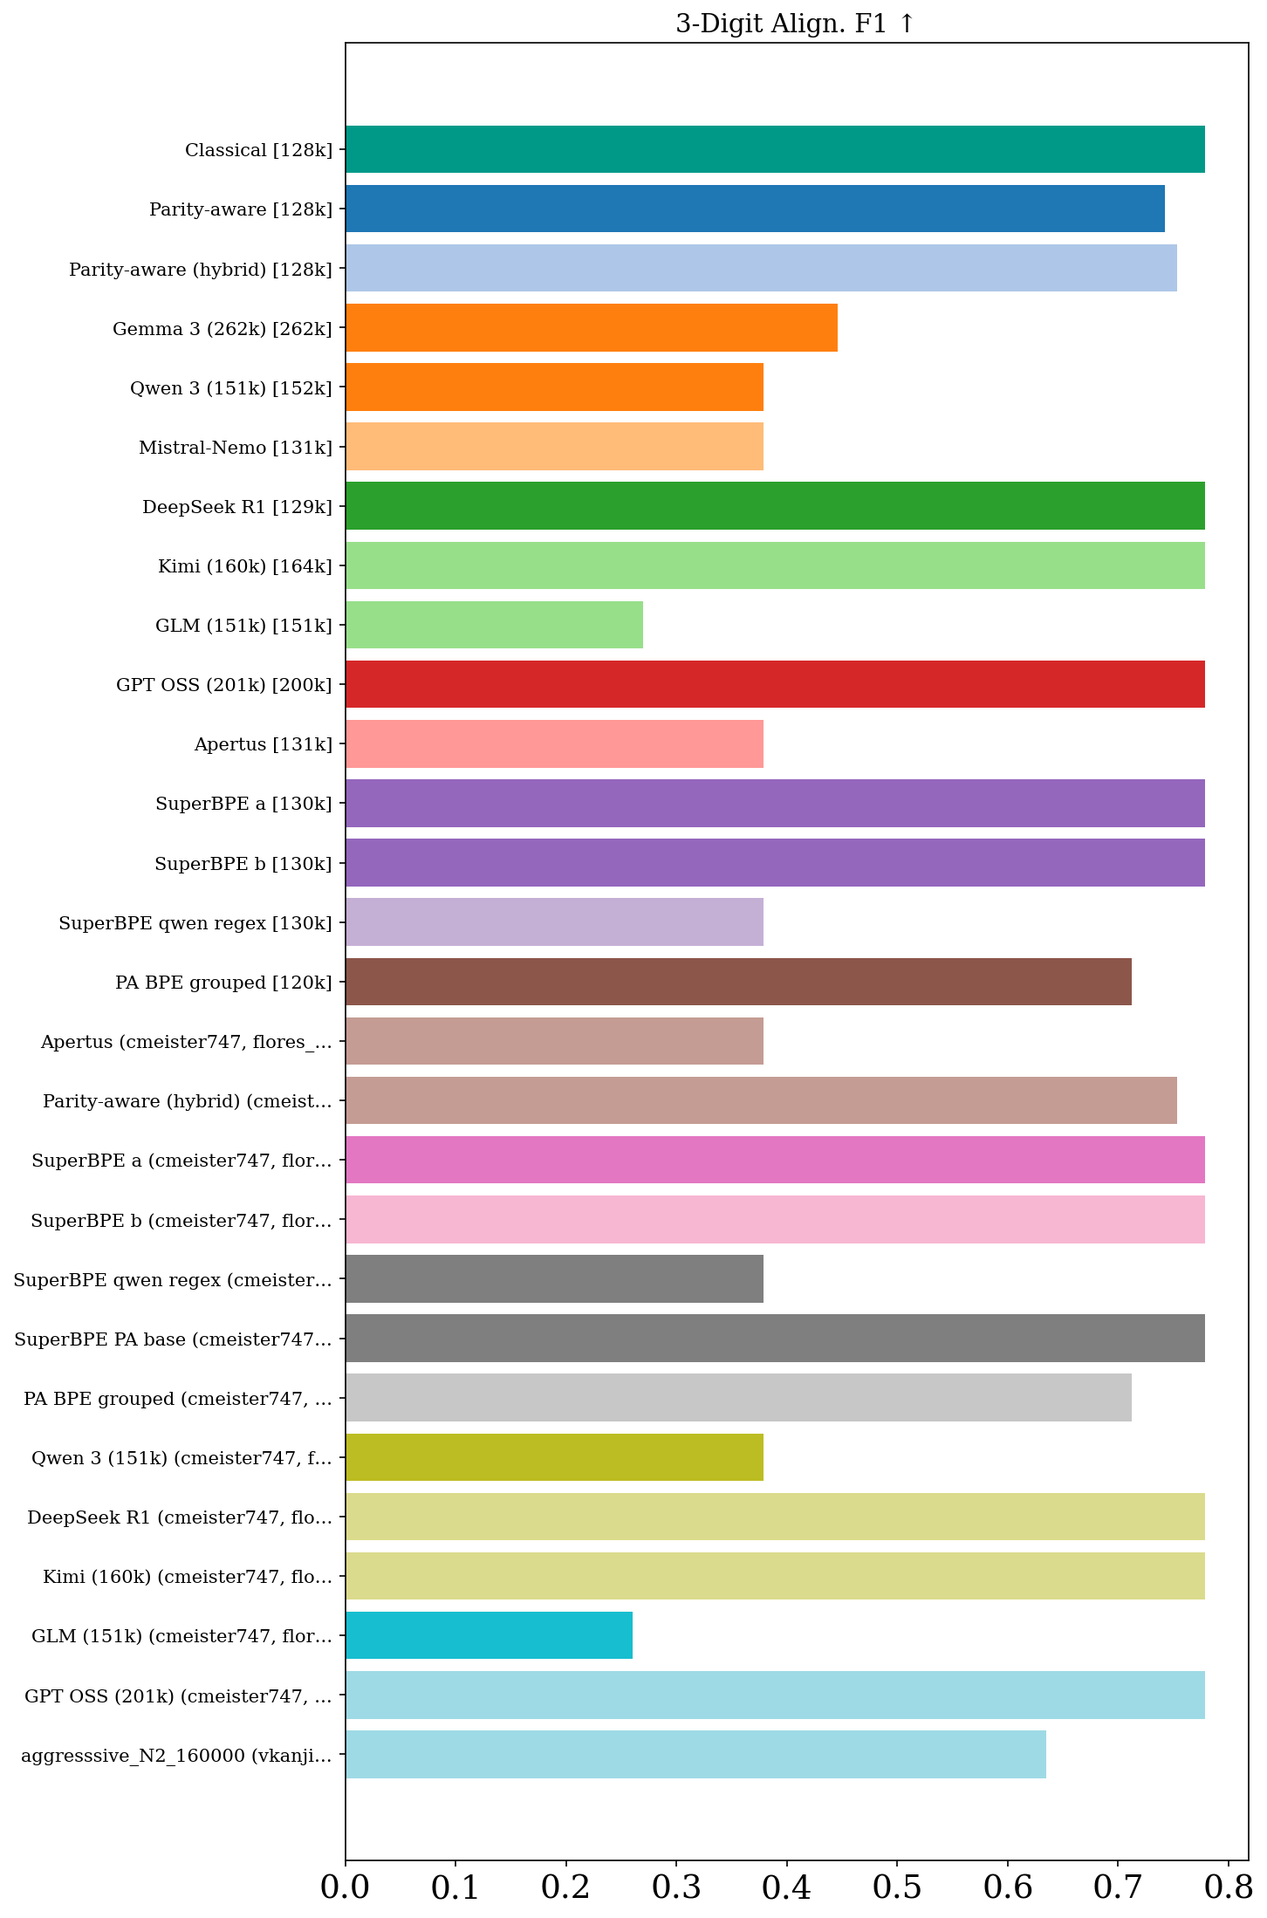
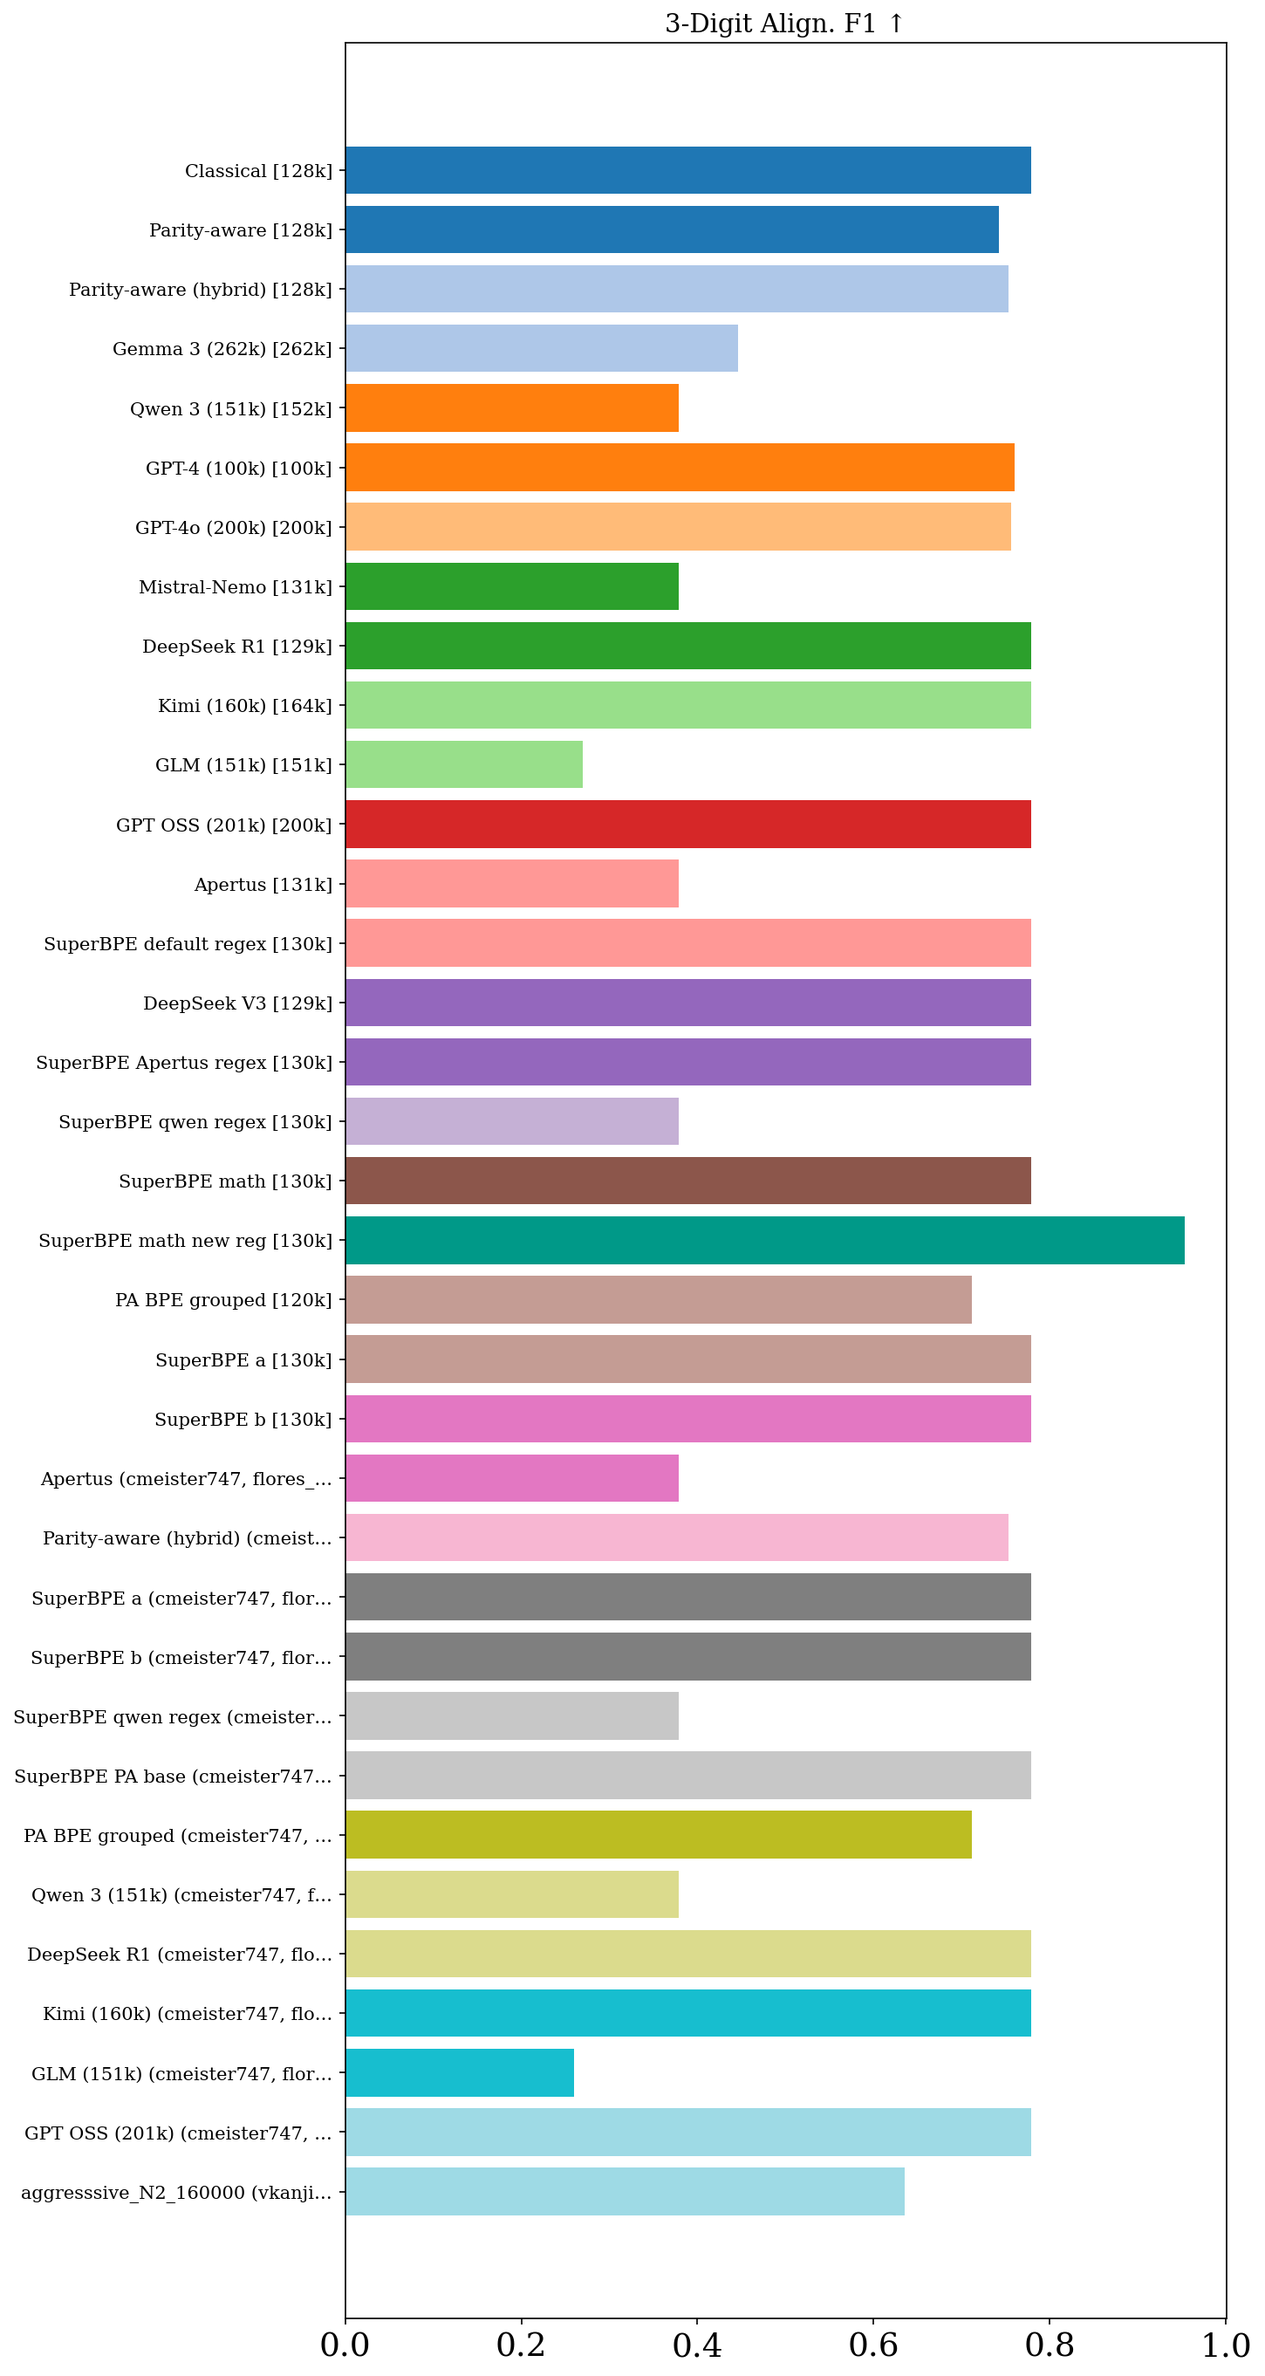
Update RESULTS_flores_core_lines.md (2026-02-26 16:45:39)

diff --git a/RESULTS_flores_core_lines.md b/RESULTS_flores_core_lines.md
@@ -1,35 +1,57 @@
-# Tokenizer Evaluation Results
+# Tokenizer Evaluation Results — flores_core / lines
 
-_Last updated: 2026-02-26 16:44:35_
+_Last updated: 2026-02-26 16:40:08_
 
-| Tokenizer | Vocab Size | Fertility | Compression Rate | Vocab Util. | Avg Token Rank | Gini | 3-Digit Align. F1 | Op. Isolation | AST Align. | Ident. Frag. | Depth Corr. | Pat. Stability | UTF-8 Integ. | Char Split | Languages | TTR | Shannon Entropy | Dataset | User | Date |
-| --- | --- | --- | --- | --- | --- | --- | --- | --- | --- | --- | --- | --- | --- | --- | --- | --- | --- | --- | --- | --- |
-| Apertus_Coarse_Family (ayavuz, flores_core) | --- | 40.070 | 0.029 | 0.340 | --- | 0.103 | --- | --- | --- | --- | --- | --- | --- | --- | 13 | 0.0858 | 12.49 | flores_core | ayavuz | 2026-02-21 |
-| Apertus_Fine_Family (ayavuz, flores_core) | --- | 40.619 | 0.029 | 0.336 | --- | 0.114 | --- | --- | --- | --- | --- | --- | --- | --- | 13 | 0.0837 | 12.43 | flores_core | ayavuz | 2026-02-21 |
-| Apertus_Per_Lang (ayavuz, flores_core) | --- | 38.592 | 0.030 | 0.333 | --- | 0.083 | --- | --- | --- | --- | --- | --- | --- | --- | 13 | 0.0872 | 12.62 | flores_core | ayavuz | 2026-02-21 |
-| BPE_Coarse_Family (ayavuz, flores_core) | --- | 42.935 | 0.027 | 0.245 | --- | 0.083 | --- | --- | --- | --- | --- | --- | --- | --- | 13 | 0.0577 | 12.46 | flores_core | ayavuz | 2026-02-21 |
-| BPE_Fine_Family (ayavuz, flores_core) | --- | 44.451 | 0.026 | 0.237 | --- | 0.082 | --- | --- | --- | --- | --- | --- | --- | --- | 13 | 0.0539 | 12.32 | flores_core | ayavuz | 2026-02-21 |
-| BPE_Per_Lang (ayavuz, flores_core) | --- | 42.585 | 0.027 | 0.228 | --- | 0.082 | --- | --- | --- | --- | --- | --- | --- | --- | 13 | 0.0541 | 12.43 | flores_core | ayavuz | 2026-02-21 |
-| Unigram_Coarse_Family (ayavuz, flores_core) | --- | 47.868 | 0.024 | 0.254 | --- | 0.066 | --- | --- | --- | --- | --- | --- | --- | --- | 13 | 0.0536 | 11.73 | flores_core | ayavuz | 2026-02-21 |
-| Unigram_Fine_Family (ayavuz, flores_core) | --- | 47.843 | 0.024 | 0.247 | --- | 0.065 | --- | --- | --- | --- | --- | --- | --- | --- | 13 | 0.0521 | 11.72 | flores_core | ayavuz | 2026-02-21 |
-| Unigram_Per_Lang (ayavuz, flores_core) | --- | 47.415 | 0.024 | 0.233 | --- | 0.061 | --- | --- | --- | --- | --- | --- | --- | --- | 13 | 0.0497 | 11.70 | flores_core | ayavuz | 2026-02-21 |
-| Zip2Zip/Gemma 3 (512 codebook) (saibo, flores_core) | 262,657 | 33.668 | 0.034 | 0.217 | 7808.0 | 0.053 | --- | --- | --- | --- | --- | --- | --- | --- | 13 | 0.1303 | 13.08 | flores_core | saibo | 2026-02-18 |
-| Zip2Zip/Qwen 3 (512 codebook) (saibo, flores_core) | 152,181 | 43.280 | 0.029 | 0.228 | 3441.9 | 0.164 | --- | --- | --- | --- | --- | --- | --- | --- | 13 | 0.0619 | 12.15 | flores_core | saibo | 2026-02-18 |
-| Zip2Zip/Mistral-Nemo (512 codebook) (saibo, flores_core) | 131,584 | 36.910 | 0.031 | 0.340 | 5639.2 | 0.068 | --- | --- | --- | --- | --- | --- | --- | --- | 13 | 0.0936 | 12.86 | flores_core | saibo | 2026-02-18 |
-| Zip2Zip/DeepSeek R1 (512 codebook) (saibo, flores_core) | 129,327 | 40.814 | 0.029 | 0.285 | 3985.5 | 0.133 | --- | --- | --- | --- | --- | --- | --- | --- | 13 | 0.0697 | 12.44 | flores_core | saibo | 2026-02-18 |
-| Zip2Zip/GPT OSS (512 codebook) (saibo, flores_core) | 200,531 | 34.314 | 0.033 | 0.244 | 6676.6 | 0.064 | --- | --- | --- | --- | --- | --- | --- | --- | 13 | 0.1102 | 13.22 | flores_core | saibo | 2026-02-18 |
-| Zip2Zip/Apertus (512 codebook) (saibo, flores_core) | 131,584 | 36.910 | 0.031 | 0.340 | 5639.2 | 0.068 | --- | --- | --- | --- | --- | --- | --- | --- | 13 | 0.0936 | 12.86 | flores_core | saibo | 2026-02-18 |
-| Apertus (cmeister747, flores_core) | 131,072 | 37.419 | 0.031 | 0.341 | 5610.9 | 0.069 | 0.379 | 0.139 | --- | --- | --- | --- | --- | --- | 13 | 0.0921 | 12.84 | flores_core | cmeister747 | 2026-02-23 |
-| Parity-aware (hybrid) (cmeister747, flores_core) | 128,004 | 37.385 | 0.030 | 0.330 | 5693.5 | 0.028 | 0.753 | 0.190 | --- | --- | --- | --- | --- | --- | 13 | 0.0872 | 12.80 | flores_core | cmeister747 | 2026-02-23 |
-| SuperBPE a (cmeister747, flores_core) | 130,000 | 40.307 | 0.028 | 0.241 | 4421.4 | 0.069 | 0.779 | 0.379 | --- | --- | --- | --- | --- | --- | 13 | 0.0601 | 13.05 | flores_core | cmeister747 | 2026-02-23 |
-| SuperBPE b (cmeister747, flores_core) | 130,000 | 42.557 | 0.028 | 0.253 | 4104.3 | 0.122 | 0.779 | 0.966 | --- | --- | --- | --- | --- | --- | 13 | 0.0597 | 12.55 | flores_core | cmeister747 | 2026-02-23 |
-| SuperBPE qwen regex (cmeister747, flores_core) | 130,000 | 42.575 | 0.027 | 0.280 | 5048.7 | 0.059 | 0.379 | 0.312 | --- | --- | --- | --- | --- | --- | 13 | 0.0659 | 13.27 | flores_core | cmeister747 | 2026-02-23 |
-| SuperBPE PA base (cmeister747, flores_core) | 130,000 | 43.548 | 0.027 | 0.236 | 3785.0 | 0.118 | 0.779 | 0.967 | --- | --- | --- | --- | --- | --- | 13 | 0.0545 | 12.48 | flores_core | cmeister747 | 2026-02-23 |
-| PA BPE grouped (cmeister747, flores_core) | 120,260 | 45.497 | 0.025 | 0.199 | 2898.5 | 0.073 | 0.712 | 0.191 | --- | --- | --- | --- | --- | --- | 13 | 0.0406 | 12.19 | flores_core | cmeister747 | 2026-02-23 |
-| Qwen 3 (151k) (cmeister747, flores_core) | 151,669 | 44.867 | 0.029 | 0.228 | 3303.4 | 0.181 | 0.379 | 0.527 | --- | --- | --- | --- | --- | --- | 13 | 0.0594 | 11.94 | flores_core | cmeister747 | 2026-02-23 |
-| DeepSeek R1 (cmeister747, flores_core) | 128,815 | 40.449 | 0.030 | 0.285 | 4041.0 | 0.140 | 0.779 | 0.504 | --- | --- | --- | --- | --- | --- | 13 | 0.0701 | 12.55 | flores_core | cmeister747 | 2026-02-23 |
-| Kimi (160k) (cmeister747, flores_core) | 163,840 | 45.112 | 0.027 | 0.173 | 2588.9 | 0.137 | 0.779 | 0.489 | --- | --- | --- | --- | --- | --- | 13 | 0.0486 | 12.16 | flores_core | cmeister747 | 2026-02-23 |
-| GLM (151k) (cmeister747, flores_core) | 151,343 | 46.472 | 0.027 | 0.251 | 3402.5 | 0.197 | 0.260 | 0.000 | --- | --- | --- | --- | --- | --- | 13 | 0.0630 | 11.71 | flores_core | cmeister747 | 2026-02-23 |
-| GPT OSS (201k) (cmeister747, flores_core) | 200,019 | 34.730 | 0.033 | 0.245 | 6659.5 | 0.065 | 0.779 | 0.354 | --- | --- | --- | --- | --- | --- | 13 | 0.1087 | 13.22 | flores_core | cmeister747 | 2026-02-23 |
-| aggresssive_N2_160000 (vkanjira, flores_core) | 19,051 | 62.586 | 0.019 | 0.295 | 382.8 | 0.120 | 0.635 | 0.382 | --- | --- | --- | --- | --- | --- | 13 | 0.0069 | 9.53 | flores_core | vkanjira | 2026-02-22 |
-| Boundless pairwise aggressive n2 (dkletz, flores_core) | 5,033 | 75.587 | 0.017 | 0.480 | 121.7 | 0.131 | --- | 0.087 | --- | --- | --- | --- | --- | --- | 13 | 0.0025 | 7.88 | flores_core | dkletz | 2026-02-22 |
+| Tokenizer | Vocab Size | Fertility ↓ | Compression Rate ↑ | Vocab Util. ↑ | Avg Token Rank ↓ | Gini ↓ | 3-Digit Align. F1 ↑ | Op. Isolation ↑ | AST Align. ↑ | Ident. Frag. ↓ | Depth Corr. ↑ | Pat. Stability ↑ | Bound. Cross ↓ | Char Split ↓ | Languages | UTF-8 Integ. | TTR | Shannon Entropy | Dataset | User | Date |
+| --- | --- | --- | --- | --- | --- | --- | --- | --- | --- | --- | --- | --- | --- | --- | --- | --- | --- | --- | --- | --- | --- |
+| Classical [128k] | 128,004 | 36.127 | 0.031 | 0.369 | 6524.2 | 0.049 | 0.779 | 0.190 | 0.148 | 0.055 | **0.000** | **1.000** | 0.0033 | 0.0052 | 13 | 0.990 | --- | --- | flores_core | meistecl | 2026-02-26 |
+| Parity-aware [128k] | 128,004 | 38.139 | 0.029 | 0.322 | 5367.5 | **0.012** | 0.742 | 0.191 | 0.188 | 0.082 | 0.000 | 1.000 | 0.0037 | 0.0058 | 13 | 0.989 | --- | --- | flores_core | meistecl | 2026-02-26 |
+| Parity-aware (hybrid) [128k] | 128,004 | 37.385 | 0.030 | 0.330 | 5693.5 | 0.028 | 0.753 | 0.190 | 0.160 | 0.066 | 0.000 | 1.000 | 0.0036 | 0.0057 | 13 | 0.989 | --- | --- | flores_core | meistecl | 2026-02-26 |
+| Gemma 3 (262k) [262k] | 262,145 | 34.075 | 0.033 | 0.217 | 7779.7 | 0.054 | 0.446 | 0.346 | 0.088 | 0.030 | -0.113 | 0.966 | 0.0426 | 0.0062 | 13 | 0.953 | --- | --- | flores_core | meistecl | 2026-02-26 |
+| Qwen 3 (151k) [152k] | 151,669 | 44.867 | 0.029 | 0.228 | 3303.4 | 0.181 | 0.379 | 0.527 | 0.605 | 0.383 | 0.000 | 1.000 | 0.0513 | 0.0759 | 13 | 0.879 | --- | --- | flores_core | meistecl | 2026-02-26 |
+| GPT-4 (100k) [100k] | 100,261 | 55.839 | 0.023 | 0.192 | 1391.9 | 0.204 | 0.760 | 0.531 | 0.610 | 0.434 | 0.000 | 1.000 | 0.0510 | 0.1586 | 13 | --- | --- | --- | flores_core | meistecl | 2026-02-26 |
+| GPT-4o (200k) [200k] | 200,000 | 36.773 | 0.031 | 0.226 | 5833.0 | 0.059 | 0.756 | 0.364 | **0.615** | 0.450 | 0.000 | 1.000 | 0.0089 | 0.0130 | 13 | --- | --- | --- | flores_core | meistecl | 2026-02-26 |
+| Mistral-Nemo [131k] | 131,072 | 37.419 | 0.031 | 0.341 | 5610.9 | 0.069 | 0.379 | 0.139 | 0.060 | 0.037 | 0.000 | 1.000 | 0.0014 | 0.0119 | 13 | 0.977 | --- | --- | flores_core | meistecl | 2026-02-26 |
+| DeepSeek R1 [129k] | 128,815 | 41.449 | 0.029 | 0.285 | 3944.5 | 0.136 | 0.779 | 0.188 | 0.000 | --- | 0.000 | 1.000 | 0.0071 | 0.0126 | 13 | 0.979 | --- | --- | flores_core | meistecl | 2026-02-26 |
+| Kimi (160k) [164k] | 163,840 | 45.112 | 0.027 | 0.173 | 2588.9 | 0.137 | 0.779 | 0.489 | 0.609 | 0.408 | 0.000 | 1.000 | 0.0116 | 0.0252 | 13 | 0.958 | --- | --- | flores_core | meistecl | 2026-02-26 |
+| GLM (151k) [151k] | 151,343 | 46.472 | 0.027 | 0.251 | 3402.5 | 0.197 | 0.270 | 0.000 | 0.001 | **0.000** | 0.000 | 1.000 | **0.0000** | **0.0000** | 13 | 1.000 | --- | --- | flores_core | meistecl | 2026-02-26 |
+| GPT OSS (201k) [200k] | 200,019 | 34.730 | 0.033 | 0.245 | 6659.5 | 0.065 | 0.779 | 0.354 | 0.609 | 0.401 | 0.000 | 1.000 | 0.0019 | 0.0059 | 13 | 0.988 | --- | --- | flores_core | meistecl | 2026-02-26 |
+| Apertus [131k] | 131,072 | 37.419 | 0.031 | 0.341 | 5610.9 | 0.069 | 0.379 | 0.139 | 0.060 | 0.037 | 0.000 | 1.000 | 0.0014 | 0.0119 | 13 | 0.977 | --- | --- | flores_core | meistecl | 2026-02-26 |
+| SuperBPE default regex [130k] | 130,000 | 40.307 | 0.028 | 0.241 | 4421.4 | 0.069 | 0.779 | 0.379 | 0.225 | 0.028 | 0.000 | 1.000 | 0.0050 | 0.0205 | 13 | --- | --- | --- | flores_core | meistecl | 2026-02-26 |
+| DeepSeek V3 [129k] | 128,815 | 41.449 | 0.029 | 0.285 | 3944.5 | 0.136 | 0.779 | 0.188 | 0.000 | --- | 0.000 | 1.000 | 0.0071 | 0.0126 | 13 | --- | --- | --- | flores_core | meistecl | 2026-02-26 |
+| SuperBPE Apertus regex [130k] | 130,000 | 42.557 | 0.028 | 0.253 | 4104.3 | 0.122 | 0.779 | 0.966 | 0.259 | 0.029 | 0.000 | 1.000 | 0.0038 | 0.0156 | 13 | --- | --- | --- | flores_core | meistecl | 2026-02-26 |
+| SuperBPE qwen regex [130k] | 130,000 | 42.575 | 0.027 | 0.280 | 5048.7 | 0.059 | 0.379 | 0.312 | 0.284 | 0.024 | 0.000 | 1.000 | 0.0047 | 0.0196 | 13 | 0.966 | --- | --- | flores_core | meistecl | 2026-02-26 |
+| SuperBPE math [130k] | 130,000 | 43.112 | 0.028 | 0.254 | 3831.6 | 0.131 | 0.779 | **0.967** | 0.264 | 0.028 | 0.000 | 1.000 | 0.0047 | 0.0193 | 13 | --- | --- | --- | flores_core | meistecl | 2026-02-26 |
+| SuperBPE math new reg [130k] | 130,000 | 40.223 | 0.029 | 0.258 | 4403.1 | 0.085 | **0.953** | 0.311 | 0.230 | 0.027 | 0.000 | 1.000 | 0.0061 | 0.0247 | 13 | --- | --- | --- | flores_core | meistecl | 2026-02-26 |
+| PA BPE grouped [120k] | 120,260 | 45.497 | 0.025 | 0.199 | 2898.5 | 0.073 | 0.712 | 0.191 | 0.159 | 0.067 | 0.000 | 1.000 | 0.0105 | 0.0415 | 13 | 0.934 | --- | --- | flores_core | meistecl | 2026-02-26 |
+| SuperBPE a [130k] | 130,000 | 40.307 | 0.028 | 0.241 | 4421.4 | 0.069 | 0.779 | 0.379 | 0.225 | 0.028 | 0.000 | 1.000 | --- | 0.0205 | 13 | 0.963 | --- | --- | flores_core | meistecl | 2026-02-25 |
+| SuperBPE b [130k] | 130,000 | 42.557 | 0.028 | 0.253 | 4104.3 | 0.122 | 0.779 | 0.966 | 0.259 | 0.029 | 0.000 | 1.000 | --- | 0.0156 | 13 | 0.973 | --- | --- | flores_core | meistecl | 2026-02-25 |
+| Apertus_Coarse_Family (ayavuz, flores_core) | --- | 40.070 | 0.029 | 0.340 | --- | 0.103 | --- | --- | --- | --- | --- | --- | --- | --- | 13 | --- | 0.0858 | 12.49 | flores_core | ayavuz | 2026-02-21 |
+| Apertus_Fine_Family (ayavuz, flores_core) | --- | 40.619 | 0.029 | 0.336 | --- | 0.114 | --- | --- | --- | --- | --- | --- | --- | --- | 13 | --- | 0.0837 | 12.43 | flores_core | ayavuz | 2026-02-21 |
+| Apertus_Per_Lang (ayavuz, flores_core) | --- | 38.592 | 0.030 | 0.333 | --- | 0.083 | --- | --- | --- | --- | --- | --- | --- | --- | 13 | --- | 0.0872 | 12.62 | flores_core | ayavuz | 2026-02-21 |
+| BPE_Coarse_Family (ayavuz, flores_core) | --- | 42.935 | 0.027 | 0.245 | --- | 0.083 | --- | --- | --- | --- | --- | --- | --- | --- | 13 | --- | 0.0577 | 12.46 | flores_core | ayavuz | 2026-02-21 |
+| BPE_Fine_Family (ayavuz, flores_core) | --- | 44.451 | 0.026 | 0.237 | --- | 0.082 | --- | --- | --- | --- | --- | --- | --- | --- | 13 | --- | 0.0539 | 12.32 | flores_core | ayavuz | 2026-02-21 |
+| BPE_Per_Lang (ayavuz, flores_core) | --- | 42.585 | 0.027 | 0.228 | --- | 0.082 | --- | --- | --- | --- | --- | --- | --- | --- | 13 | --- | 0.0541 | 12.43 | flores_core | ayavuz | 2026-02-21 |
+| Unigram_Coarse_Family (ayavuz, flores_core) | --- | 47.868 | 0.024 | 0.254 | --- | 0.066 | --- | --- | --- | --- | --- | --- | --- | --- | 13 | --- | 0.0536 | 11.73 | flores_core | ayavuz | 2026-02-21 |
+| Unigram_Fine_Family (ayavuz, flores_core) | --- | 47.843 | 0.024 | 0.247 | --- | 0.065 | --- | --- | --- | --- | --- | --- | --- | --- | 13 | --- | 0.0521 | 11.72 | flores_core | ayavuz | 2026-02-21 |
+| Unigram_Per_Lang (ayavuz, flores_core) | --- | 47.415 | 0.024 | 0.233 | --- | 0.061 | --- | --- | --- | --- | --- | --- | --- | --- | 13 | --- | 0.0497 | 11.70 | flores_core | ayavuz | 2026-02-21 |
+| Zip2Zip/Gemma 3 (512 codebook) (saibo, flores_core) | 262,657 | **33.668** | **0.034** | 0.217 | 7808.0 | 0.053 | --- | --- | --- | --- | --- | --- | --- | --- | 13 | --- | 0.1303 | 13.08 | flores_core | saibo | 2026-02-18 |
+| Zip2Zip/Qwen 3 (512 codebook) (saibo, flores_core) | 152,181 | 43.280 | 0.029 | 0.228 | 3441.9 | 0.164 | --- | --- | --- | --- | --- | --- | --- | --- | 13 | --- | 0.0619 | 12.15 | flores_core | saibo | 2026-02-18 |
+| Zip2Zip/Mistral-Nemo (512 codebook) (saibo, flores_core) | 131,584 | 36.910 | 0.031 | 0.340 | 5639.2 | 0.068 | --- | --- | --- | --- | --- | --- | --- | --- | 13 | --- | 0.0936 | 12.86 | flores_core | saibo | 2026-02-18 |
+| Zip2Zip/DeepSeek R1 (512 codebook) (saibo, flores_core) | 129,327 | 40.814 | 0.029 | 0.285 | 3985.5 | 0.133 | --- | --- | --- | --- | --- | --- | --- | --- | 13 | --- | 0.0697 | 12.44 | flores_core | saibo | 2026-02-18 |
+| Zip2Zip/GPT OSS (512 codebook) (saibo, flores_core) | 200,531 | 34.314 | 0.033 | 0.244 | 6676.6 | 0.064 | --- | --- | --- | --- | --- | --- | --- | --- | 13 | --- | 0.1102 | 13.22 | flores_core | saibo | 2026-02-18 |
+| Zip2Zip/Apertus (512 codebook) (saibo, flores_core) | 131,584 | 36.910 | 0.031 | 0.340 | 5639.2 | 0.068 | --- | --- | --- | --- | --- | --- | --- | --- | 13 | --- | 0.0936 | 12.86 | flores_core | saibo | 2026-02-18 |
+| Apertus (cmeister747, flores_core) | 131,072 | 37.419 | 0.031 | 0.341 | 5610.9 | 0.069 | 0.379 | 0.139 | --- | --- | --- | --- | --- | --- | 13 | --- | 0.0921 | 12.84 | flores_core | cmeister747 | 2026-02-23 |
+| Parity-aware (hybrid) (cmeister747, flores_core) | 128,004 | 37.385 | 0.030 | 0.330 | 5693.5 | 0.028 | 0.753 | 0.190 | --- | --- | --- | --- | --- | --- | 13 | --- | 0.0872 | 12.80 | flores_core | cmeister747 | 2026-02-23 |
+| SuperBPE a (cmeister747, flores_core) | 130,000 | 40.307 | 0.028 | 0.241 | 4421.4 | 0.069 | 0.779 | 0.379 | --- | --- | --- | --- | --- | --- | 13 | --- | 0.0601 | 13.05 | flores_core | cmeister747 | 2026-02-23 |
+| SuperBPE b (cmeister747, flores_core) | 130,000 | 42.557 | 0.028 | 0.253 | 4104.3 | 0.122 | 0.779 | 0.966 | --- | --- | --- | --- | --- | --- | 13 | --- | 0.0597 | 12.55 | flores_core | cmeister747 | 2026-02-23 |
+| SuperBPE qwen regex (cmeister747, flores_core) | 130,000 | 42.575 | 0.027 | 0.280 | 5048.7 | 0.059 | 0.379 | 0.312 | --- | --- | --- | --- | --- | --- | 13 | --- | 0.0659 | 13.27 | flores_core | cmeister747 | 2026-02-23 |
+| SuperBPE PA base (cmeister747, flores_core) | 130,000 | 43.548 | 0.027 | 0.236 | 3785.0 | 0.118 | 0.779 | 0.967 | --- | --- | --- | --- | --- | --- | 13 | --- | 0.0545 | 12.48 | flores_core | cmeister747 | 2026-02-23 |
+| PA BPE grouped (cmeister747, flores_core) | 120,260 | 45.497 | 0.025 | 0.199 | 2898.5 | 0.073 | 0.712 | 0.191 | --- | --- | --- | --- | --- | --- | 13 | --- | 0.0406 | 12.19 | flores_core | cmeister747 | 2026-02-23 |
+| Qwen 3 (151k) (cmeister747, flores_core) | 151,669 | 44.867 | 0.029 | 0.228 | 3303.4 | 0.181 | 0.379 | 0.527 | --- | --- | --- | --- | --- | --- | 13 | --- | 0.0594 | 11.94 | flores_core | cmeister747 | 2026-02-23 |
+| DeepSeek R1 (cmeister747, flores_core) | 128,815 | 40.449 | 0.030 | 0.285 | 4041.0 | 0.140 | 0.779 | 0.504 | --- | --- | --- | --- | --- | --- | 13 | --- | 0.0701 | 12.55 | flores_core | cmeister747 | 2026-02-23 |
+| Kimi (160k) (cmeister747, flores_core) | 163,840 | 45.112 | 0.027 | 0.173 | 2588.9 | 0.137 | 0.779 | 0.489 | --- | --- | --- | --- | --- | --- | 13 | --- | 0.0486 | 12.16 | flores_core | cmeister747 | 2026-02-23 |
+| GLM (151k) (cmeister747, flores_core) | 151,343 | 46.472 | 0.027 | 0.251 | 3402.5 | 0.197 | 0.260 | 0.000 | --- | --- | --- | --- | --- | --- | 13 | --- | 0.0630 | 11.71 | flores_core | cmeister747 | 2026-02-23 |
+| GPT OSS (201k) (cmeister747, flores_core) | 200,019 | 34.730 | 0.033 | 0.245 | 6659.5 | 0.065 | 0.779 | 0.354 | --- | --- | --- | --- | --- | --- | 13 | --- | 0.1087 | 13.22 | flores_core | cmeister747 | 2026-02-23 |
+| aggresssive_N2_160000 (vkanjira, flores_core) | 19,051 | 62.586 | 0.019 | 0.295 | 382.8 | 0.120 | 0.635 | 0.382 | --- | --- | --- | --- | --- | --- | 13 | --- | 0.0069 | 9.53 | flores_core | vkanjira | 2026-02-22 |
+| Boundless pairwise aggressive n2 (dkletz, flores_core) | 5,033 | 75.587 | 0.017 | **0.480** | **121.7** | 0.131 | --- | 0.087 | --- | --- | --- | --- | --- | --- | 13 | --- | 0.0025 | 7.88 | flores_core | dkletz | 2026-02-22 |
